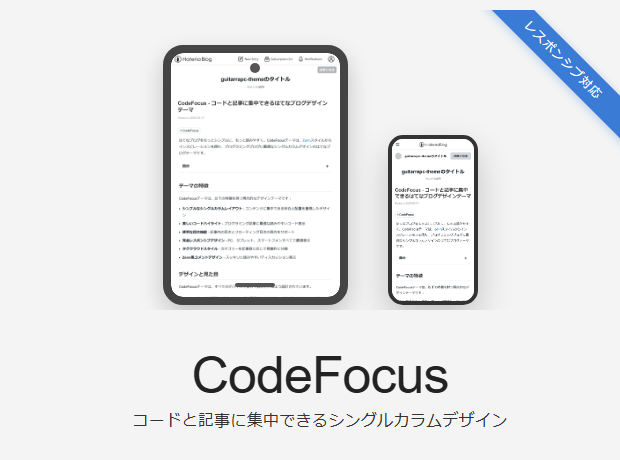
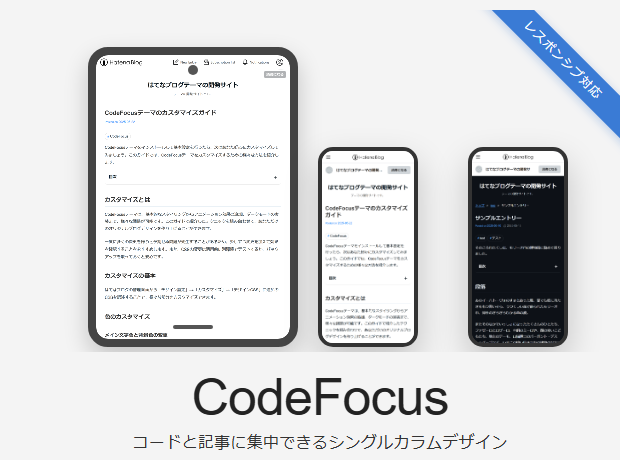
chore: update catch image [skip ci]

Changed region(s): [[0.1226, 0.0913, 0.9194, 0.9739]]

diff --git a/theme-store-catch.html b/theme-store-catch.html
@@ -35,7 +35,7 @@
       display: flex;
       align-items: flex-end;
       justify-content: center;
-      height: 300px;
+      height: 400px;
       padding: 50px 20px 0 20px;
       background: #f4f4f4;
       position: relative;
@@ -53,8 +53,8 @@
       margin: 0 auto;
       padding: 10px 0 5px 0;
       /* パディングを調整して上に移動 */
-      gap: 40px;
-      /* デバイス間の間隔を広げる */
+      gap: 20px;
+      /* デバイス間の間隔を調整 */
     }
 
     .device {
@@ -67,12 +67,10 @@
 
     /* Tablet */
     .tablet {
-      width: 185px;
-      /* さらに幅を狭くする */
-      height: 260px;
-      /* さらに高さを小さくする */
-      margin-left: 30px;
-      /* 左マージンを減らす */
+      width: 210px;
+      height: 300px;
+      margin-left: 15px;
+      /* 左マージンを調整 */
       border: 8px solid #444;
       border-radius: 20px;
       z-index: 3;
@@ -114,16 +112,43 @@
       display: none;
     }
 
+    /* Smartphone - Dark Mode */
+    .smartphone-dark {
+      width: 100px;
+      height: 200px;
+      border: 4px solid #333;
+      border-radius: 15px;
+      margin-left: 15px;
+      z-index: 2;
+      box-shadow: 0 15px 35px rgba(0, 0, 0, 0.2);
+      align-self: baseline;
+      margin-bottom: 0;
+      margin-top: 10px;
+      background-color: #0d1117;
+    }
+
+    .smartphone-dark:before {
+      content: "";
+      position: absolute;
+      width: 30px;
+      height: 3px;
+      background-color: #333;
+      border-radius: 3px;
+      top: 10px;
+      left: 50%;
+      transform: translateX(-50%);
+    }
+
     /* Smartphone */
     .smartphone {
-      width: 90px;
+      width: 100px;
       /* さらに小さくする */
-      height: 170px;
+      height: 200px;
       /* さらに小さくする */
       border: 4px solid #333;
       border-radius: 15px;
-      margin-right: 30px;
-      /* 右マージンを減らす */
+      margin-right: 15px;
+      /* 右マージンを調整 */
       z-index: 2;
       box-shadow: 0 15px 35px rgba(0, 0, 0, 0.2);
       align-self: baseline;
@@ -170,7 +195,7 @@
 
     .title-area {
       text-align: center;
-      padding: 30px 0 15px 0;
+      padding: 10px 0 15px 0;
       height: 120px;
       display: flex;
       flex-direction: column;
@@ -231,6 +256,10 @@
         </div>
         <div class="device smartphone" style="z-index: 2;">
           <div class="device-screen" style="background-image: url('screenshots/visual-mobile.png');">
+          </div>
+        </div>
+        <div class="device smartphone-dark" style="z-index: 2;">
+          <div class="device-screen" style="background-image: url('screenshots/dark-mode-dark-theme.png');">
           </div>
         </div>
       </div>
